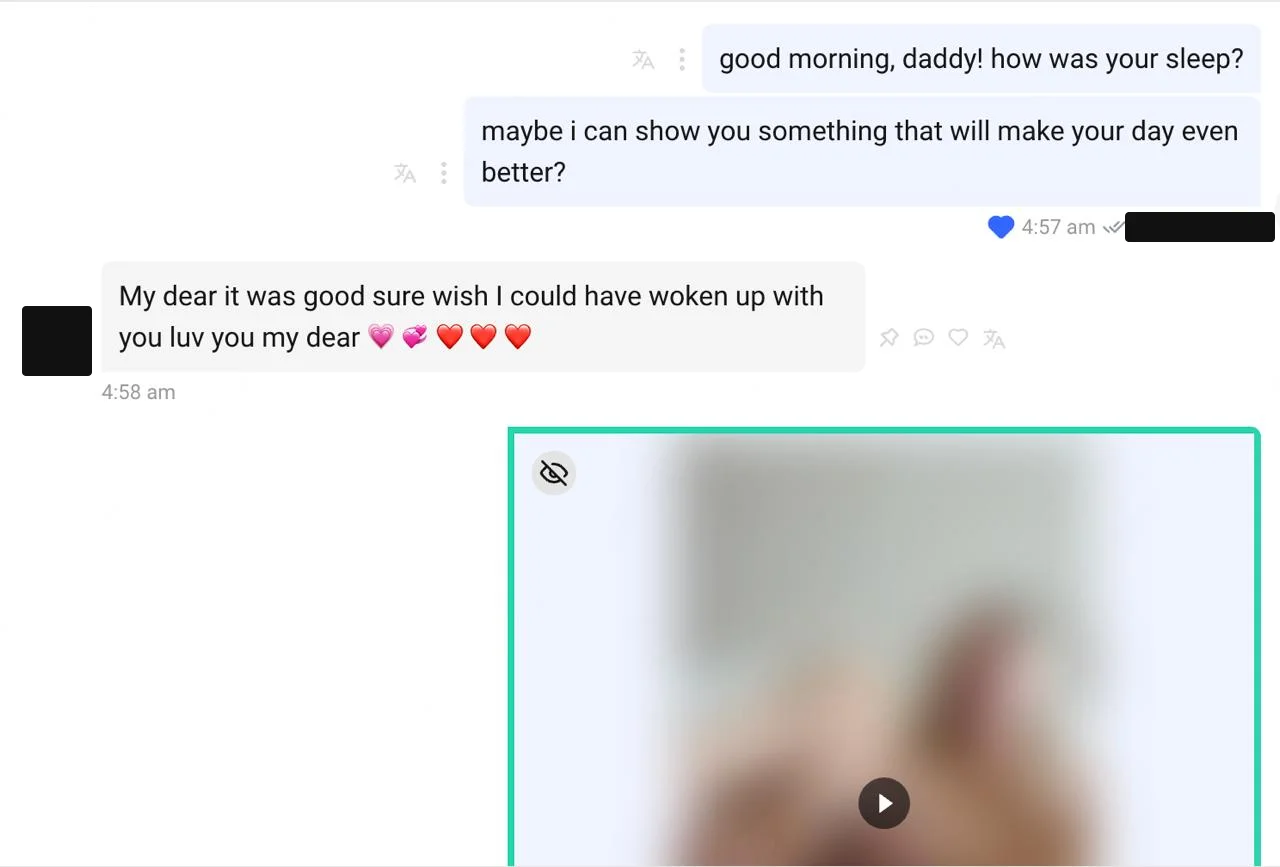
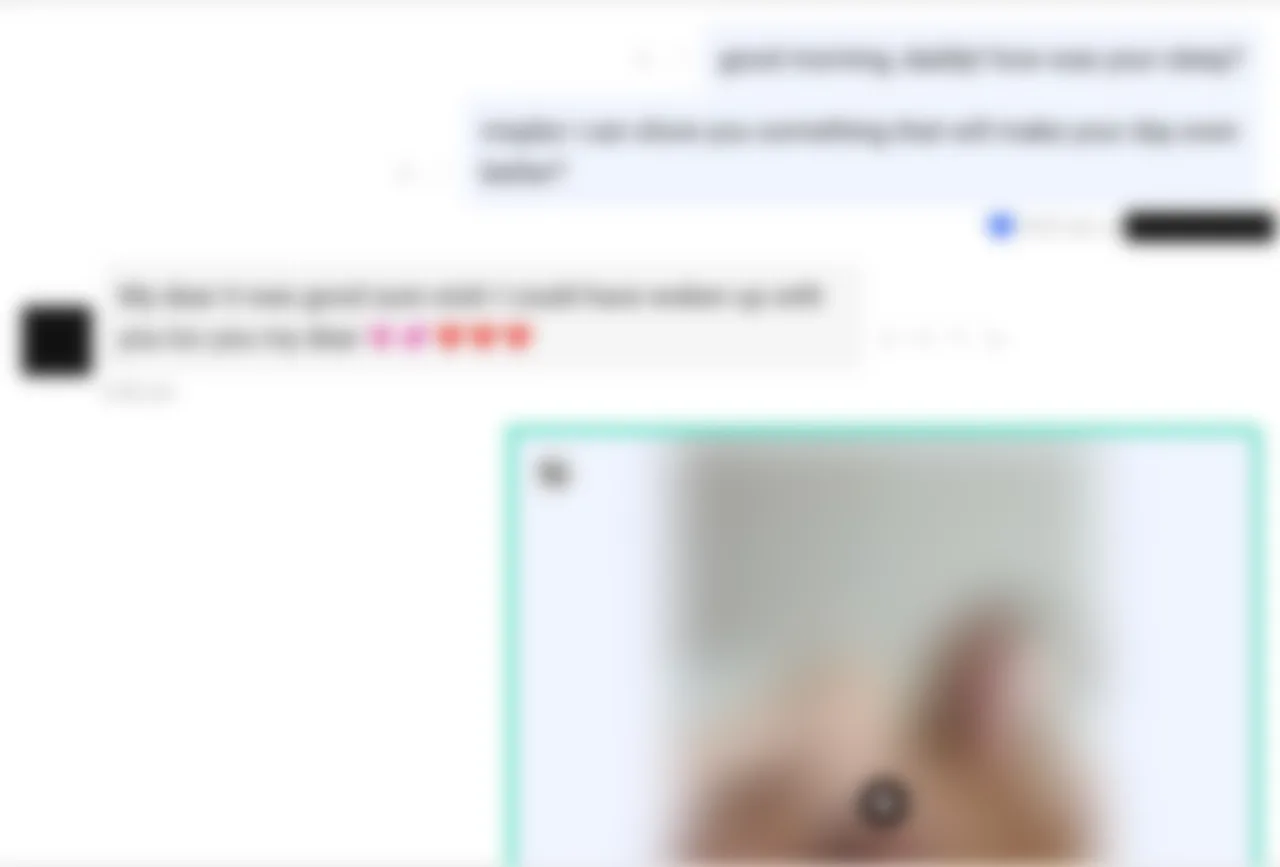
Blur the chat screenshots and make the copy gender-neutral
The three chat screenshots on /proof are now blurred into the image itself
(ImageMagick, 0x9), so the message text can't be read on the public site,
even by opening the file directly. The bubbles still show the shape of a
conversation. The section intro now says the messages are blurred and
that we'll walk through them on the call.

The creator on the team is "them" rather than "her" in the call steps and
the first FAQ answer, and the chatting operator's team is "their team".

Each screenshot now carries a provenance sidecar saying where it came
from.

diff --git a/src/lib/content.ts b/src/lib/content.ts
@@ -185,7 +185,7 @@ export const FOUNDER_AUTHORITY = {
   founders: [
     {
       role: "The Chatting Operator",
-      desc: "Runs the largest chatting operation in the industry. His team trains and staffs the chatters behind the biggest pages in the space.",
+      desc: "Runs the largest chatting operation in the industry. Their team trains and staffs the chatters behind the biggest pages in the space.",
     },
     {
       role: "The Full-Service Operator",
@@ -348,7 +348,7 @@ export const CHAT_EXAMPLES = {
   eyebrow: "The real thing",
   heading: "Actual conversations, run by our pods.",
   intro:
-    "Not scripts. These are live conversations from pages the founding team runs today. Notice the pacing: rapport first, persona held, the PPV landing inside the conversation. Fan names and media are redacted.",
+    "Not scripts. These are live conversations from pages the founding team runs today. Notice the pacing: rapport first, persona held, the PPV landing inside the conversation. Fan names and media are redacted, and the messages are blurred on this public page; we'll walk you through them on your call.",
   shots: [
     { file: "chat-1.webp", label: "Morning check-in → $40 PPV unlock, in persona" },
     { file: "chat-2.webp", label: "Custom request handled: $350 prospect logged in Locus" },
@@ -407,7 +407,7 @@ export const CALL_EXPECT = {
     },
     {
       title: "You talk to a creator already on the team",
-      desc: "We'll connect you with a model currently on these systems so you can ask her the things you'd never ask us.",
+      desc: "We'll connect you with a model currently on these systems so you can ask them the things you'd never ask us.",
     },
     {
       title: "You leave with the numbers either way",
@@ -424,7 +424,7 @@ export const FAQ = {
   items: [
     {
       q: "Can I talk to a model who actually works with you?",
-      a: "Yes, and we'll offer before you ask. On your intro call we connect you with a creator currently on these systems, and you talk to her without us in the room. Ask her anything: what the money really did, whether the chatters sound like her, what she'd change. Nobody who's hiding something makes that offer.",
+      a: "Yes, and we'll offer before you ask. On your intro call we connect you with a creator currently on these systems, and you talk to them without us in the room. Ask them anything: what the money really did, whether the chatters sound like them, what they'd change. Nobody who's hiding something makes that offer.",
     },
     {
       q: "I already have chatters I trust. Do I have to give them up?",
